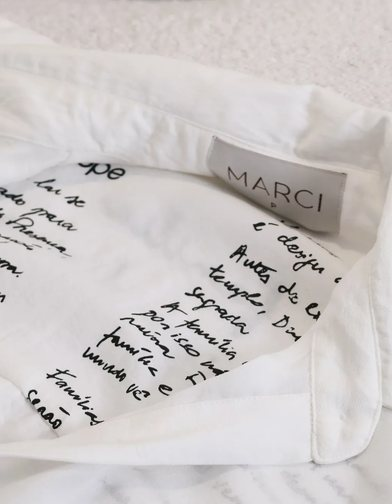
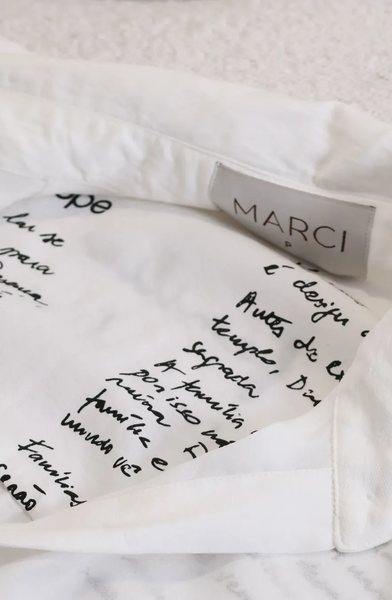
E-mail: ajustes finos pedidos na revisão
- Hero volta ao enquadramento em que o bordado "família design divino"
  encosta no título
- Card da collab: foto preenche a altura inteira (não sobra vazio
  embaixo) e o bloco ganha fundo próprio, destacando do papel do e-mail
- Cupom: o texto "Use o cupom..." sobe para cima do botão, e a linha
  "um presente especial para você" volta a caber numa linha só
- Ícone de desconto redesenhado seguindo o PNG de referência

diff --git a/assets/email/convocacao-recebida.html b/assets/email/convocacao-recebida.html
@@ -72,11 +72,11 @@
 
   <!-- ─────────────────────────────────────────────── a collab -->
   <tr><td style="padding:0 26px;">
-    <table role="presentation" width="100%" cellpadding="0" cellspacing="0" style="border:1px solid rgba(31,34,26,.14);">
+    <table role="presentation" width="100%" cellpadding="0" cellspacing="0" style="border:1px solid rgba(31,34,26,.14);background:#E8E0D2;">
     <tr>
       <td width="196" style="padding:0;font-size:0;line-height:0;">
         <a href="{{LINK_COLECAO}}" style="display:block;">
-          <img src="cid:foto-camisa" width="196" height="252" alt="Peça da coleção Truehope + Marci, com a etiqueta MARCI e o manifesto escrito à mão no forro." style="display:block;width:196px;height:252px;border:0;">
+          <img src="cid:foto-camisa" width="196" height="300" alt="Peça da coleção Truehope + Marci, com a etiqueta MARCI e o manifesto escrito à mão no forro." style="display:block;width:196px;height:300px;border:0;">
         </a>
       </td>
       <td valign="middle" style="padding:24px 22px;font-family:Arial,Helvetica,sans-serif;">
@@ -106,26 +106,26 @@
   <tr><td style="padding:0 26px;">
     <table role="presentation" width="100%" cellpadding="0" cellspacing="0" style="border:1px solid rgba(31,34,26,.14);">
     <tr>
-      <td valign="middle" width="196" style="padding:18px 0 18px 18px;font-family:Arial,Helvetica,sans-serif;">
+      <td valign="middle" width="240" style="padding:20px 0 20px 18px;font-family:Arial,Helvetica,sans-serif;">
         <table role="presentation" cellpadding="0" cellspacing="0"><tr>
-          <td valign="middle" style="padding-right:10px;">
-            <img src="cid:icone-cupom" width="30" height="30" alt="" style="display:block;border:0;">
+          <td valign="middle" style="padding-right:11px;">
+            <img src="cid:icone-cupom" width="32" height="32" alt="" style="display:block;border:0;">
           </td>
           <td valign="middle">
-            <p style="margin:0 0 4px;font-size:8px;letter-spacing:.12em;line-height:1.5;text-transform:uppercase;color:#7B3620;">
-              Um presente<br>especial para você
+            <p style="margin:0 0 4px;font-size:8px;letter-spacing:.12em;line-height:1.5;text-transform:uppercase;color:#7B3620;white-space:nowrap;">
+              Um presente especial para você
             </p>
-            <p style="margin:0;font-family:'Prata',Georgia,'Times New Roman',serif;font-size:21px;letter-spacing:.01em;color:#1F221A;line-height:1.1;">
+            <p style="margin:0;font-family:'Prata',Georgia,'Times New Roman',serif;font-size:22px;letter-spacing:.01em;color:#1F221A;line-height:1.1;">
               {{CUPOM}}
             </p>
           </td>
         </tr></table>
       </td>
-      <td valign="middle" width="143" style="padding:18px 12px;font-family:Georgia,'Times New Roman',serif;font-size:11.5px;line-height:1.5;color:#4A4438;">
-        Use o cupom e ganhe 15% de desconto em toda a nossa collab com a Marci.
-      </td>
-      <td valign="middle" align="right" width="169" style="padding:18px 18px 18px 0;">
-        <a href="{{LINK_COLECAO}}" style="display:inline-block;white-space:nowrap;font-family:Arial,Helvetica,sans-serif;font-size:10px;letter-spacing:.14em;text-transform:uppercase;color:#F4EFE6;background:#1F221A;text-decoration:none;padding:13px 15px;">
+      <td valign="middle" align="right" width="268" style="padding:20px 18px 20px 14px;">
+        <p style="margin:0 0 11px;font-family:Georgia,'Times New Roman',serif;font-size:11.5px;line-height:1.5;color:#4A4438;text-align:right;">
+          Use o cupom e ganhe 15% de desconto<br>em toda a nossa collab com a Marci.
+        </p>
+        <a href="{{LINK_COLECAO}}" style="display:inline-block;white-space:nowrap;font-family:Arial,Helvetica,sans-serif;font-size:10px;letter-spacing:.14em;text-transform:uppercase;color:#F4EFE6;background:#1F221A;text-decoration:none;padding:13px 16px;">
           Aproveitar agora &nbsp;&rarr;
         </a>
       </td>

diff --git a/assets/email/fontes/icone.html b/assets/email/fontes/icone.html
@@ -5,17 +5,22 @@
   html,body{width:38px;height:38px;background:transparent}
   svg{display:block}
 </style>
-<svg width="38" height="38" viewBox="0 0 38 38" fill="none" xmlns="http://www.w3.org/2000/svg">
-  <!-- etiqueta inclinada -->
-  <g transform="rotate(-28 19 19)">
-    <path d="M6.5 12.2a2.6 2.6 0 0 1 2.6-2.6h13.1c.7 0 1.35.28 1.84.77l7.1 7.1a2.6 2.6 0 0 1 0 3.67l-9.4 9.4a2.6 2.6 0 0 1-3.67 0l-7.1-7.1a2.6 2.6 0 0 1-.77-1.84V12.2z"
-          stroke="#4F1C0A" stroke-width="1.6" fill="none"/>
-    <circle cx="12.6" cy="15.4" r="1.9" fill="#4F1C0A"/>
+<!-- Etiqueta de desconto: traço grosso, cantos arredondados e o % alinhado
+     à diagonal da etiqueta — mesmo desenho do PNG de referência. -->
+<svg width="38" height="38" viewBox="0 0 38 38" xmlns="http://www.w3.org/2000/svg">
+  <g fill="none" stroke="#1F221A" stroke-width="2.1" stroke-linecap="round" stroke-linejoin="round">
+    <!-- corpo da etiqueta -->
+    <path d="M20.6 3.7 L31.9 2.8 a3 3 0 0 1 3.2 3.2 L34.3 17.4
+             a3.4 3.4 0 0 1 -0.98 2.2 L19.9 33.3 a3.4 3.4 0 0 1 -4.8 0
+             L4.7 22.9 a3.4 3.4 0 0 1 0 -4.8 L18.4 4.7
+             a3.4 3.4 0 0 1 2.2 -1 z"/>
+    <!-- cordão -->
+    <path d="M31.6 1.4 L29.9 9.2"/>
+    <!-- porcento -->
+    <circle cx="15.6" cy="17.4" r="2.5"/>
+    <circle cx="22.6" cy="24.4" r="2.5"/>
+    <path d="M13.6 27.2 L24.6 14.6"/>
   </g>
-  <!-- porcento -->
-  <g stroke="#4F1C0A" stroke-width="1.5">
-    <circle cx="16.4" cy="17.4" r="1.9" fill="none"/>
-    <circle cx="23.2" cy="24.2" r="1.9" fill="none"/>
-    <line x1="24.4" y1="15.9" x2="15.2" y2="25.5" stroke-linecap="round"/>
-  </g>
+  <!-- ilhós -->
+  <circle cx="29.4" cy="10.6" r="2.4" fill="#1F221A"/>
 </svg>

diff --git a/assets/email/fontes/hero.html b/assets/email/fontes/hero.html
@@ -9,7 +9,7 @@
   }
   .hero img{
     position:absolute;inset:0;width:100%;height:100%;object-fit:cover;
-    object-position:44% 34%;
+    object-position:56% 52%;
     filter:saturate(.72) contrast(1.06);
   }
   /* três camadas: um banho quente pra tirar o cinza da foto, o degradê que

diff --git a/assets/email/fontes/gerar.py b/assets/email/fontes/gerar.py
@@ -68,7 +68,9 @@ mono.save(os.path.join(SAIDA, 'logo-th.png'))
 
 # ------------------------------------------------------------- foto da collab
 # JPEG e não WEBP: o Outlook para Windows não abre WEBP.
-cobrir(os.path.join(IMG, 'pc-camisa.webp'), os.path.join(SAIDA, 'foto-camisa.jpg'), 392, 504)
+# Alta o bastante para encher o card inteiro — se ficar menor que a coluna de
+# texto ao lado, sobra um vazio embaixo da foto.
+cobrir(os.path.join(IMG, 'pc-camisa.webp'), os.path.join(SAIDA, 'foto-camisa.jpg'), 392, 600, vies=0.34)
 
 # --------------------------------------------- foto da comunidade (folhagem escurecida)
 arcos = Image.open(os.path.join(IMG, 'hero-arcos.webp')).convert('RGB')
